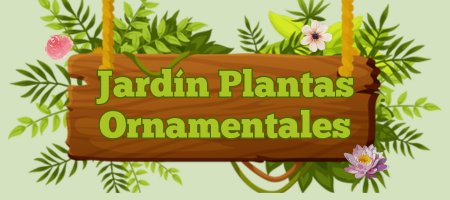
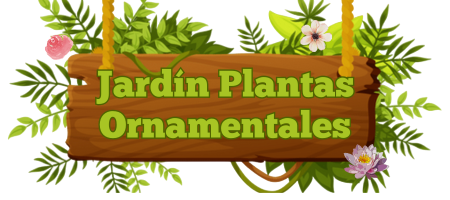
titulos sin fondo

diff --git a/lib/pantallas/ornamentales.dart b/lib/pantallas/ornamentales.dart
@@ -141,7 +141,7 @@ class OrnamentalesScreenState extends State<OrnamentalesScreen> {
       children: [
         Image.asset(
           'assets/images/titulo_orna.png',
-          width: 280,
+          width: 300,
         ),
       ],
     );

diff --git a/lib/pantallas/medicinales.dart b/lib/pantallas/medicinales.dart
@@ -141,7 +141,7 @@ class _MedicinalesScreenState extends State<MedicinalesScreen> {
       children: [
         Image.asset(
           'assets/images/titulo_medi.png',
-          width: 280,
+          width: 300,
         ),
       ],
     );

diff --git a/lib/pantallas/explore_screen.dart b/lib/pantallas/explore_screen.dart
@@ -140,7 +140,7 @@ class _ExploreScreenState extends State<ExploreScreen> {
       children: [
         Image.asset(
           'assets/images/titulo_plantas.png',
-          width: 280,
+          width: 300,
         ),
       ],
     );

diff --git a/lib/pantallas/arboles.dart b/lib/pantallas/arboles.dart
@@ -141,7 +141,7 @@ class _ArbolesScreenState extends State<ArbolesScreen> {
       children: [
         Image.asset(
           'assets/images/titulo_arb.png',
-          width: 280,
+          width: 300,
         ),
       ],
     );
